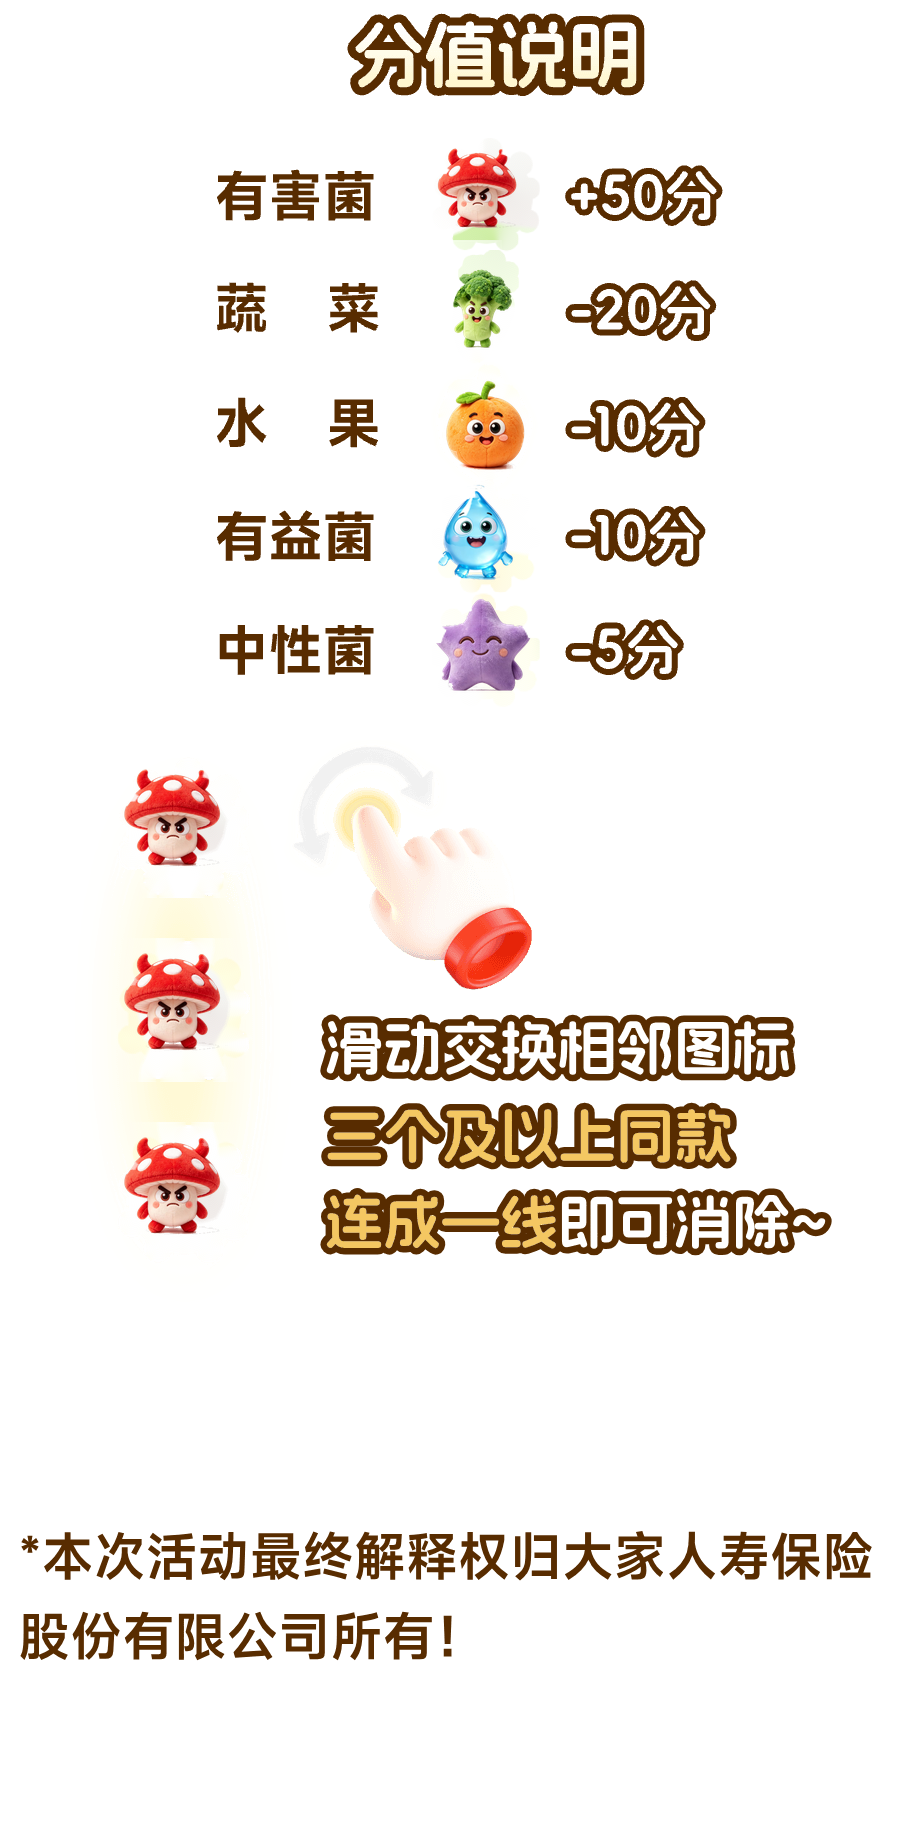
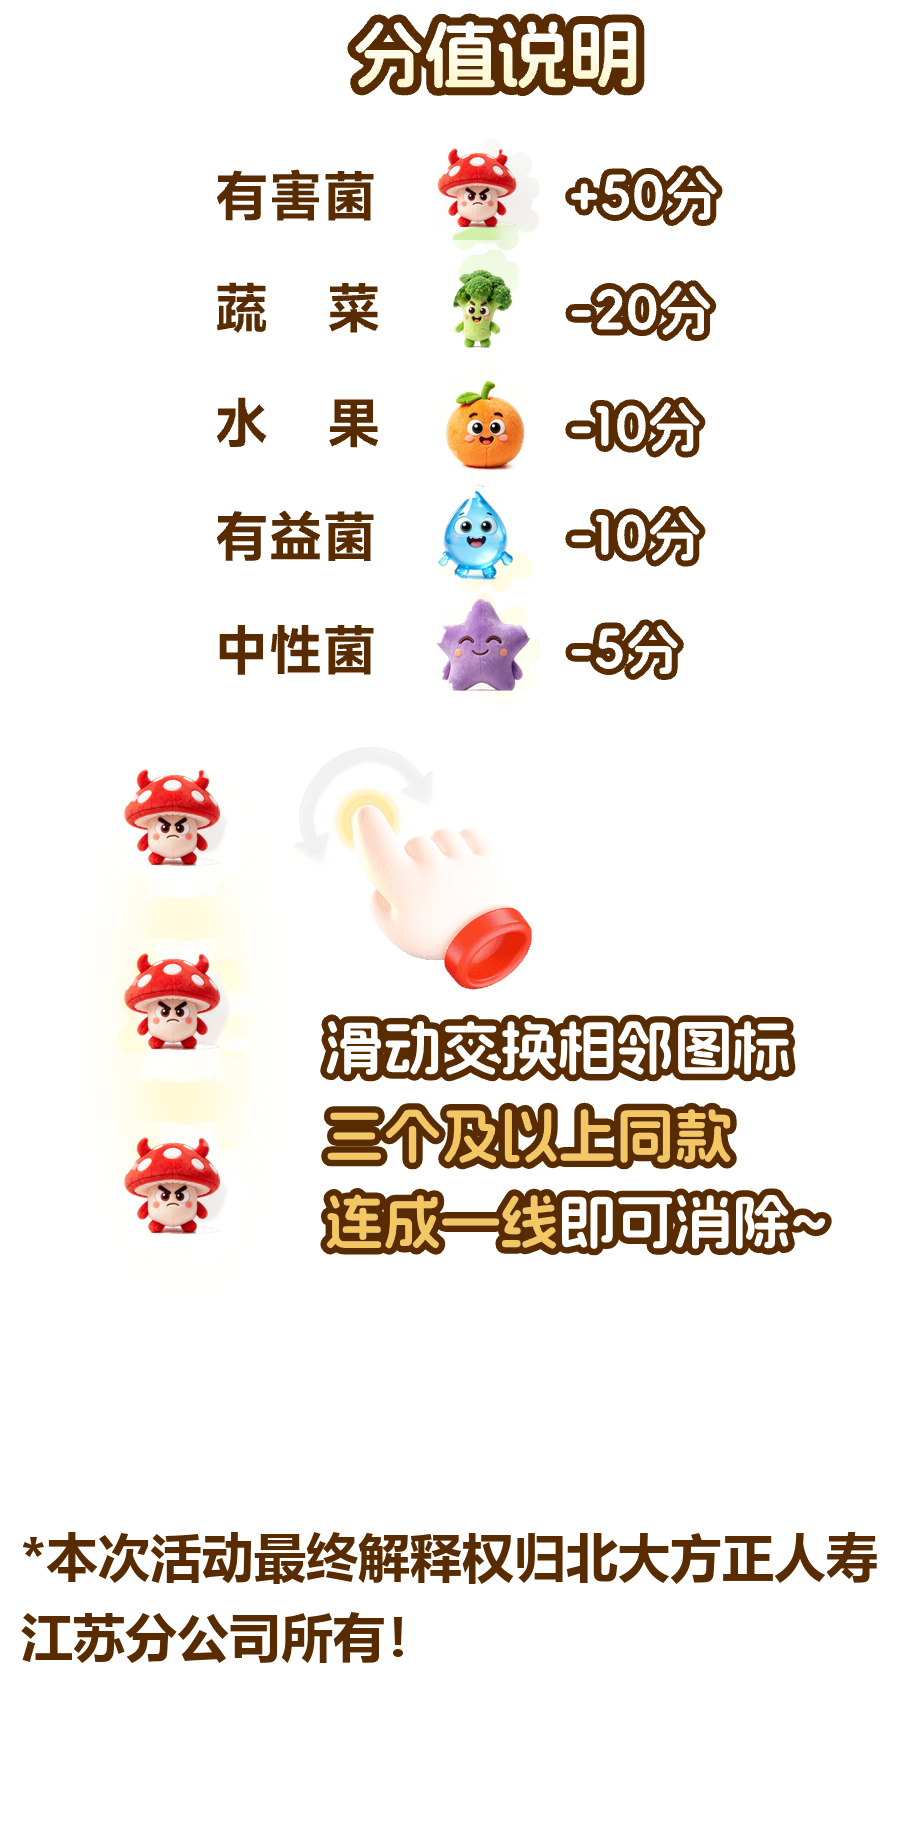
Rename the rules sponsor to the Jiangsu branch of PKU Founder Life.

Changed region(s): [[0.0306, 0.8337, 0.9792, 0.9263]]

diff --git a/index.html b/index.html
@@ -7,7 +7,7 @@
   <meta http-equiv="Expires" content="0" />
   <meta name="viewport" content="width=device-width, user-scalable=no, initial-scale=1, maximum-scale=1, viewport-fit=cover" />
   <title>益生守护 肠享好时光</title>
-  <link rel="stylesheet" href="css/game.css?v=17" />
+  <link rel="stylesheet" href="css/game.css?v=18" />
 </head>
 <body>
   <div class="phone" id="phone">
@@ -21,7 +21,7 @@
     <div class="side-tabs">
       <button type="button" data-action="rules"><img src="assets/static/image/tab_rules.2280077b.png" alt="活动规则" /></button>
     </div>
-    <img class="theme" src="assets/static/image/theme.24d3b741.png?v=17" alt="益生守护 肠享好时光" />
+    <img class="theme" src="assets/static/image/theme.24d3b741.png?v=18" alt="益生守护 肠享好时光" />
     <button class="start-btn" type="button" data-action="start"><img src="assets/static/image/start.416fb9e8.png" alt="开始游戏" /></button>
   </section>
 
@@ -59,8 +59,8 @@
     <img class="logo" src="image/logo.png" alt="北大方正人寿江苏分公司" />
     <div id="result-title" class="result-title win"></div>
     <div class="score-card">
-      <div class="score-line"><img src="assets/static/image/bad.e7701dce.png?v=17" alt="" /><span>成功消除有害菌</span><b id="result-bad">0个</b></div>
-      <div class="score-line"><img src="assets/static/image/good2.0b5e797e.png?v=17" alt="" /><span>成功守护有益菌</span><b id="result-good">0个</b></div>
+      <div class="score-line"><img src="assets/static/image/bad.e7701dce.png?v=18" alt="" /><span>成功消除有害菌</span><b id="result-bad">0个</b></div>
+      <div class="score-line"><img src="assets/static/image/good2.0b5e797e.png?v=18" alt="" /><span>成功守护有益菌</span><b id="result-good">0个</b></div>
       <div class="score-line"><span>得分</span><b id="result-score">0</b></div>
       <div id="result-rank-block" class="rank-card">
         <img id="result-rank-img" class="badge" alt="" />
@@ -71,7 +71,7 @@
     <div class="book" id="result-book">
       <div id="result-knowledge" class="knowledge"></div>
     </div>
-    <button id="btn-manager" class="manager-btn" type="button"><img src="assets/static/image/btn_manager.png?v=17" alt="联系你的客户经理领好礼" /></button>
+    <button id="btn-manager" class="manager-btn" type="button"><img src="assets/static/image/btn_manager.png?v=18" alt="联系你的客户经理领好礼" /></button>
     <div class="actions">
       <button id="btn-again" type="button" data-action="again"><img src="assets/static/image/btn_again.a8b01706.png" alt="再来一次" /></button>
       <button id="btn-next" type="button" data-action="next"><img src="assets/static/image/btn_next.547c6ce5.png" alt="下一关" /></button>
@@ -83,7 +83,7 @@
 
   <section id="howto" class="overlay howto" hidden>
     <div class="howto-card">
-      <img class="rules" src="assets/static/image/game_rules.b7cd129a.png?v=17" alt="游戏规则" />
+      <img class="rules" src="assets/static/image/game_rules.b7cd129a.png?v=18" alt="游戏规则" />
       <img class="finger" src="assets/static/image/finger.2957c077.png" alt="" />
     </div>
     <button type="button" data-action="howto-go"><img class="howto-go" src="assets/static/image/start.766e35a5.png" alt="开始" /></button>
@@ -122,7 +122,7 @@
 
   <div id="toast" class="toast" hidden></div>
   </div>
-  <script src="js/engine.js?v=17"></script>
-  <script src="js/app.js?v=17"></script>
+  <script src="js/engine.js?v=18"></script>
+  <script src="js/app.js?v=18"></script>
 </body>
 </html>

diff --git a/js/app.js b/js/app.js
@@ -3,11 +3,11 @@ const MEDIA = "assets/static/media/";
 const LOGO = "image/logo.png";
 
 const TILES = {
-  1: IMG + "bad.e7701dce.png?v=17",
-  2: IMG + "good1.bec550f3.png?v=17",
-  3: IMG + "good2.0b5e797e.png?v=17",
-  4: IMG + "grape.ec727821.png?v=17",
-  5: IMG + "carrot.85a5d31e.png?v=17",
+  1: IMG + "bad.e7701dce.png?v=18",
+  2: IMG + "good1.bec550f3.png?v=18",
+  3: IMG + "good2.0b5e797e.png?v=18",
+  4: IMG + "grape.ec727821.png?v=18",
+  5: IMG + "carrot.85a5d31e.png?v=18",
 };
 
 const ROUND_TITLE = [
@@ -224,7 +224,7 @@ function renderRank() {
 
 function renderModal() {
   const map = {
-    rules: { title: IMG + "tab_rules.2280077b.png", body: IMG + "rules.d30d95b1.png?v=17", frame: IMG + "bg_modal2.f6c41725.png" },
+    rules: { title: IMG + "tab_rules.2280077b.png", body: IMG + "rules.d30d95b1.png?v=18", frame: IMG + "bg_modal2.f6c41725.png" },
     prize: { title: IMG + "tab_prize.50b50917.png", body: IMG + "tab_prize.50b50917.png", frame: IMG + "bg_modal1.90a830b4.png" },
     protocol: { title: IMG + "title_rules.d6d6c7d2.png", body: IMG + "protocol.e3577188.png", frame: IMG + "bg_modal3.3d7bc8c7.png" },
   };

diff --git a/css/game.css b/css/game.css
@@ -33,8 +33,8 @@ button, img { user-select: none; }
 button { border: 0; padding: 0; background: transparent; cursor: pointer; }
 .screen, .overlay { position: absolute; inset: 0; }
 .screen { min-height: 100%; background-position: center top; background-size: cover; background-repeat: no-repeat; }
-#home { background-image: url("../assets/static/image/bg-home.jpg?v=17"); }
-#game { background-image: url("../assets/static/image/bg-game.jpg?v=17"); overflow: auto; }
+#home { background-image: url("../assets/static/image/bg-home.jpg?v=18"); }
+#game { background-image: url("../assets/static/image/bg-game.jpg?v=18"); overflow: auto; }
 #rank { background-image: url("../assets/static/image/bg.22ba2e11.jpg"); overflow: auto; }
 #poster { background-image: url("../assets/static/image/bg.9fb073bd.jpg"); overflow: auto; }
 #loading {

diff --git a/js/engine.js b/js/engine.js
@@ -16,7 +16,7 @@ const RANKS = [
     min: 750,
     name: "益生守护卫士",
     stars: 5,
-    image: "rank1.89c06a4f.png?v=17",
+    image: "rank1.89c06a4f.png?v=18",
     tag: "tag1.d8ae3d69.png",
     comment: "你的菌群管理能力堪称大师级！好菌队伍壮大、坏菌无处藏身。继续保持，好好爱自己，好好爱肠道",
   },

diff --git a/make_poster.py b/make_poster.py
@@ -5,7 +5,7 @@ import qrcode
 from PIL import Image, ImageDraw, ImageFont
 
 ROOT = os.path.dirname(os.path.abspath(__file__))
-PLAY_URL = os.environ.get("PLAY_URL", "https://hua691.github.io/gut-match3-play/?v=17")
+PLAY_URL = os.environ.get("PLAY_URL", "https://hua691.github.io/gut-match3-play/?v=18")
 OUT = os.path.join(ROOT, "海报.png")
 
 W, H = 1080, 2160
